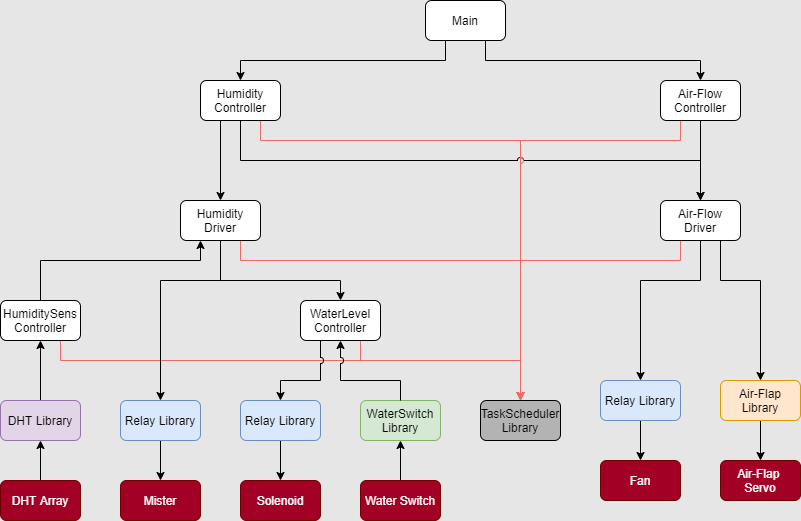
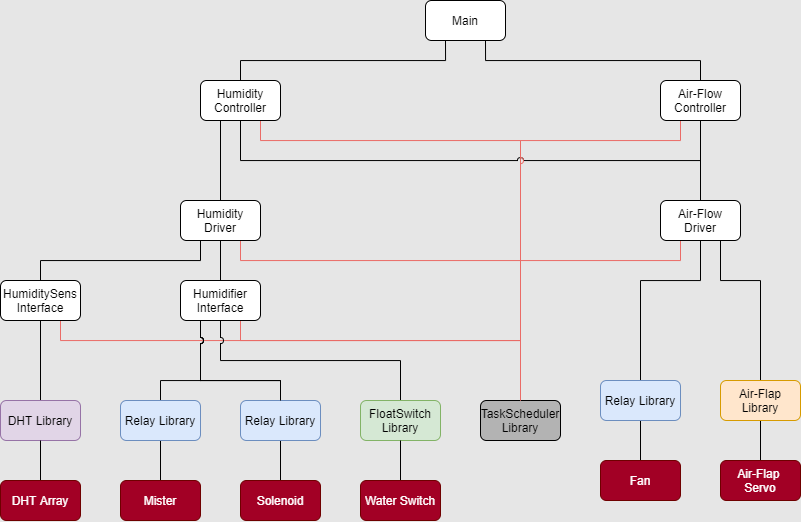
Removed Middleware Temporarily.  Updated names

diff --git a/Firmware/taskScheduler.c b/Firmware/taskScheduler.c
@@ -1,25 +1,17 @@
 #include "taskScheduler.h"
 
-void execTaskIfReady(task_t* task_obj)
+static inline void execTask(task_t* task_obj, void* task())    //callback function.  points to task
 {
-  if(__isAllowedExec(task_obj))
-  {
-    __execTask(task_obj->taskPointer);
-    task_obj->lastExecTime = millis();
-  }
+  (*task)();
+  task_obj->lastExecTime = millis();
+}
+
+inline bool isAllowedExec(task_t* task_obj)            //returns whether task is ready
+{
+  return (millis() - task_obj->lastExecTime) >= task_obj->minRepeatTime;
 }
 
 long getTimeToAllowedExec(task_t* task_obj)    //gets the minimum time till repitition of task
 {
   return task_obj->minRepeatTime - (millis() - task_obj->lastExecTime);
-}
-
-static inline void __execTask(void* task())    //callback function.  points to task
-{
-  (*task)();
-}
-
-inline bool __isAllowedExec(task_t* task_obj)            //returns whether task is ready
-{
-  return (millis() - task_obj->lastExecTime) >= task_obj->minRepeatTime;
 }

diff --git a/Firmware/servoSwitch.cpp b/Firmware/servoSwitch.cpp
@@ -1,0 +1,34 @@
+#include "servoSwitch.h"
+
+void initServoSwitch(servoSwitch_t* servoSwitch_obj)
+{
+  //Setup
+  servoSwitch_obj->servo.attach(servoSwitch_obj->pinNumber);
+  
+  //Set intial state
+  closeServoSwitch(servoSwitch_obj);
+}
+
+void openServoSwitch(servoSwitch_t* servoSwitch_obj)
+{
+  servoSwitch_obj->openState = true;
+  setAirFlap(servoSwitch_obj);
+}
+
+void closeServoSwitch(servoSwitch_t* servoSwitch_obj)
+{
+  servoSwitch_obj->openState = false;
+  setAirFlap(servoSwitch_obj);
+}
+
+static void setAirFlap(servoSwitch_t* servoSwitch_obj)
+{
+  if(servoSwitch_obj->openState)
+  {
+    servoSwitch_obj->servo.write(servoSwitch_obj->openPos);
+  }
+  else
+  {
+    servoSwitch_obj->servo.write(servoSwitch_obj->closePos);
+  }
+}

diff --git a/Firmware/servoSwitch.h b/Firmware/servoSwitch.h
@@ -1,0 +1,24 @@
+/*  Manages two-state servos (open and closed)
+*/
+#ifndef SERVOSWITCH_H
+#define SERVOSWITCH_H
+
+#include "Arduino.h"
+#include <Servo.h>
+
+typedef struct
+{
+  const int pinNumber;
+  const int openPos;
+  const int closePos;
+  Servo servo;
+  bool openState;    //on = true.  off = false.
+} servoSwitch_t;
+
+void initServoSwitch(servoSwitch_t* servoSwitch_obj);
+void openServoSwitch(servoSwitch_t* servoSwitch_obj);
+void closeServoSwitch(servoSwitch_t* servoSwitch_obj);
+
+static void setAirFlap(servoSwitch_t* servoSwitch_obj);    //open or close
+
+#endif //SERVOSWITCH_H

diff --git a/Firmware/taskScheduler.h b/Firmware/taskScheduler.h
@@ -10,11 +10,8 @@ typedef struct
   long lastExecTime;                //timestamp of last execution of task
 } task_t;
 
-
-void execTaskIfReady(task_t* task_obj);
+static inline void execTask(task_t* task_obj, void* task());
+bool isAllowedExec(task_t* task_obj);           //returns whether task is ready
 long getTimeToAllowedExec(task_t* task_obj);    //gets the minimum time till repitition of task
-
-static inline void __execTask(void* task());
-bool __isAllowedExec(task_t* task_obj);           //returns whether task is ready
 
 #endif //TASKSCHEDULER_H

diff --git a/Firmware/definitionsMushAutoUnoShield.h b/Firmware/definitionsMushAutoUnoShield.h
@@ -1,0 +1,22 @@
+#ifndef HARDWAREDEFINITIONS_H
+#define HARDWAREDEFINITIONS_H
+
+#define RELAY_MISTER_PIN 2
+#define RELAY_INFLOWSOLENOID_PIN 3
+#define RELAY_FAN_PIN 4
+//#define RELAY_HEATER_PIN 5
+
+#define SERVO_AIRFLAP_PIN 11
+#define SERVO_AIRFLAP_OPENPOS 30
+#define SERVO_AIRFLAP_CLOSEPOS 130
+
+
+//#define SWITCH_WATERHEIGHT_PIN 13     //PCB definition
+#define SWITCH_WATERHEIGHT_PIN 13       //with jumper
+
+#define DHT1_PIN A0
+#define DHT2_PIN A1
+#define DHT3_PIN A2
+#define DHT4_PIN A3
+
+#endif //HARDWAREDEFINITIONS_H

diff --git a/Firmware/switch.h b/Firmware/switch.h
@@ -1,0 +1,15 @@
+#ifndef SWITCH_H
+#define SWITCH_H
+
+#include "Arduino.h"
+
+typedef struct
+{
+  const int pinNumber;
+  bool enabledState;    //on = true.  off = false.
+} switch_t;
+
+void initSwitch(switch_t* switch_obj);
+void readSwitch(switch_t* switch_obj);
+
+#endif //SWITCH_H

diff --git a/Firmware/switch.c b/Firmware/switch.c
@@ -1,0 +1,12 @@
+#include "switch.h"
+
+void initSwitch(switch_t* switch_obj)
+{
+  pinMode(switch_obj->pinNumber, INPUT);
+  //attach
+}
+
+void readSwitch(switch_t* switch_obj)
+{
+  switch_obj->enabledState = digitalRead(switch_obj->pinNumber);
+}
